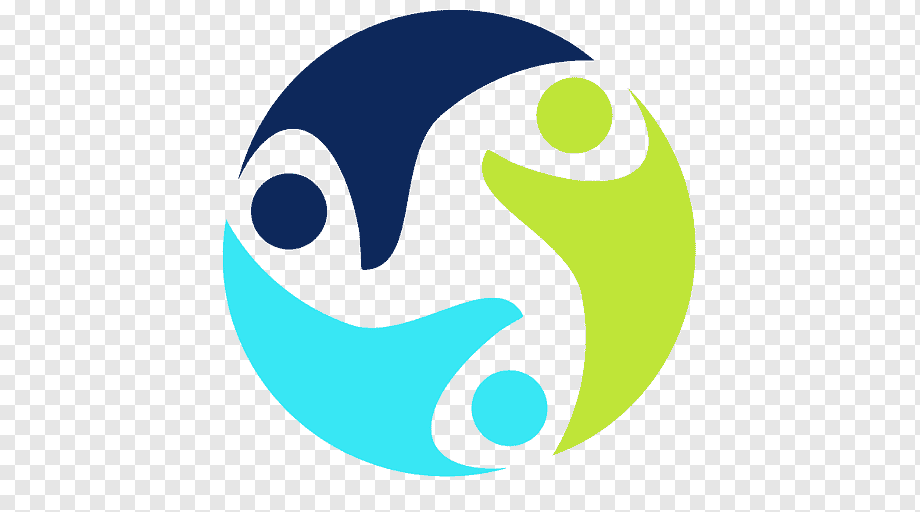
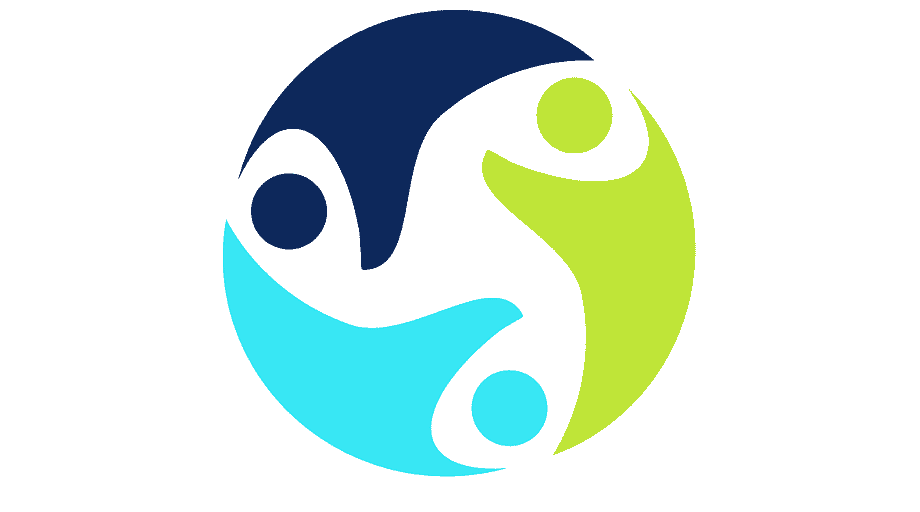
feat: ajustes de login, manejo de errores y multilenguaje

diff --git a/src/pages/controllers/login/Login.tsx b/src/pages/controllers/login/Login.tsx
@@ -46,16 +46,18 @@ export const Login = () => {
     ev.preventDefault();
     setLoading(true);
     const formData = serialize(ev.target as HTMLFormElement);
-    const { data } = await publicFetch.post<IAxiosResponseMessage>('/Login/Register',
+    const { data } = await publicFetch.post<IAxiosResponseMessage>('/login/register',
       formData
     );
     data.callback = function (): any {
+      if(data?.code !== 201) return;
       (ev.target as HTMLFormElement).reset();
-      setActualAge(0);
       setPage('login');
+      return;
     }
-    notify(data);
+    notify(data, true);
     setLoading(false);
+    return;
   }
   return isAutenticated() ? <Navigate to="/home" /> : (
     <>
@@ -70,7 +72,7 @@ export const Login = () => {
           <Row style={{ height: "100%" }}>
             <Col className='my-auto'>
               <h5 style={{ fontSize: "3rem" }} className="mt-0 mb-0 text-light text-center mb-0 align-middle">
-                <Logo width='200px' />
+                <Logo width='300px' />
               </h5>
             </Col>
           </Row>
@@ -82,7 +84,7 @@ export const Login = () => {
                 <Card className={`${styles.card} ${styles.shadow} border-0 mx-auto`}>
                   <Card.Header className={`${styles.card_header}  p-4`}>
                     <h5 className='text-light text-center mb-0 align-middle'>
-                      <Logo width='50px' />
+                      <Logo width='100px' />
                     </h5>
                   </Card.Header>
                   <Card.Body className="p-4">
@@ -139,14 +141,8 @@ export const Login = () => {
                                     {t("email")}
                                   </h6 >
                                 </label>
-                                <InputGroup size="sm" className="mb-1">
-                                  <FormControl ref={codeRef} size="sm" name="email" required />
-                                  <Button size="sm" variant={'primary'}>
-                                    <FontAwesomeIcon icon={faCheck} />&nbsp;
-                                  </Button>
-                                </InputGroup>
+                                <FormControl type="email" size="sm" name="email" required />
                                 <div className="invalid-feedback"> {t("email")}</div>
-                                <FormControl size="sm" type="number" maxLength={6} name='verify-code' required className="mb-2" placeholder={t('verify-code')} />
                                 <label>
                                   <h6 className='text-grey'>
                                     <FontAwesomeIcon icon={faUser} />&nbsp;
@@ -156,37 +152,17 @@ export const Login = () => {
                                 <FormControl size="sm" name='name' required className="mb-2" />
                                 <label>
                                   <h6 className='text-grey'>
-                                    <FontAwesomeIcon icon={faCalendarWeek} />&nbsp;
-                                    {t("birth-date")}
-                                  </h6 >
-                                </label>
-                                <InputGroup size="sm" className="mb-1">
-                                  <FormControl className={actualAge >= 18 ? "is-valid" : actualAge !== 0 ? "is-invalid" : ''} type="date" size="sm" name="birthdate" required />
-                                  <Button size="sm" variant="primary">
-                                    {actualAge} {t('years')}
-                                  </Button>
-                                </InputGroup>
-                                <label>
-                                  <h6 className='text-grey'>
                                     <FontAwesomeIcon icon={faKey} />&nbsp;
                                     {t("password")}
                                   </h6 >
                                 </label>
                                 <InputGroup size="sm" className="mb-1">
-                                  <FormControl type={showPass ? "text" : "password"} size="sm" name="password" required />
+                                  <FormControl type={showPass ? "text" : "password"} minLength={8} size="sm" name="password" required />
                                   <Button size="sm" variant="primary" onClick={() => setShowPass(prev => !prev)}>
                                     {
                                       showPass ? <FontAwesomeIcon icon={faEyeSlash} /> : <FontAwesomeIcon icon={faEye} />
                                     }
                                   </Button>
-                                </InputGroup>
-                                <InputGroup size="sm" className="mb-1 form-check">
-                                  <Form.Check
-                                    required
-                                    type="checkbox"
-                                    name="accept_tyc"
-                                    label={<Link to={TERM_URL} target="_blank" >{t("terms-and-conditions")}</Link>}
-                                  />
                                 </InputGroup>
                               </div >
                               <Row className="m-3 justify-content-center">

diff --git a/src/components/basepanel/Sidebar.tsx b/src/components/basepanel/Sidebar.tsx
@@ -16,13 +16,16 @@ export const Sidebar = ({ children }: ContextProps) => {
     const [fullWidth, setFullWidth] = useState<boolean>(false);
     const { theme, setTheme } = useTheme();
     const { user, LogOut } = useAuth();
-    const { t } = useTranslation();
+    const { t, i18n } = useTranslation();
     //const { validatePermissions } = usePermissions();
     const [openCollapse, setOpenCollapse] = useState<boolean>(false);
     useEffect(() => {
-        validateResponsive();     
-     
+        validateResponsive();
+
     }, []);
+    const handleUpdateLang = (e: React.ChangeEvent<HTMLSelectElement>) => {
+        i18n.changeLanguage(e.target.value);
+    }
     const CollapsableNavItem = (props: ISideBarCollapsableNavItem) => {
         const [opened, setOpened] = useState<boolean>(false);
         const { title, icon, children = null } = props;
@@ -102,7 +105,7 @@ export const Sidebar = ({ children }: ContextProps) => {
                                 <i className="uil-bars" />
                             </Button>
                             <Link to="/home" className="navbar-brand">
-                                <Logo width="100px" transparent className="img-fluid" />
+                                <Logo width="80px" transparent className="img-fluid" />
                             </Link>
                         </div>
                         <Button type="button" className='navbar-toggler ml-auto' onClick={() => setOpenCollapse(!openCollapse)}
@@ -114,6 +117,12 @@ export const Sidebar = ({ children }: ContextProps) => {
                         <Collapse className="navbar-collapse" in={openCollapse}>
                             <div id="toggle-navbar">
                                 <ul className="navbar-nav ms-auto">
+                                    <li className="nav-item">
+                                        <select value={i18n.language} className="form-select form-select-sm mt-2" onChange={handleUpdateLang}>
+                                            <option value="en">{t("english")}</option>
+                                            <option value="es">{t("spanish")}</option>
+                                        </select>
+                                    </li>
                                     <li className="nav-item">
                                         <Link to='#' className="nav-link" onClick={() => { setTheme(theme === "light" ? "dark" : "light") }}>
                                             <FontAwesomeIcon icon={theme === "light" ? faMoon : faSun} />
@@ -149,7 +158,7 @@ export const Sidebar = ({ children }: ContextProps) => {
                     {children}
                 </Container>
                 <footer>
-                    &copy; {APP_NAME} <br /> 2025 - {new Date().getFullYear()} <br />
+                    &copy; {APP_NAME} <br /> {new Date().getFullYear()} <br />
                 </footer>
             </section>
         </>

diff --git a/src/hooks/useNotify.tsx b/src/hooks/useNotify.tsx
@@ -32,6 +32,14 @@ export const useNotify = () => {
                     callback: data.callback
                 });
                 break;
+            case 500:
+                Alert({
+                    title: t('error'),
+                    text: translated ? t(data.text) : data.text,
+                    type: "error",
+                    callback: data.callback
+                });
+                break;
             default:
                 Alert({
                     title: t('warning'),

diff --git a/index.html b/index.html
@@ -2,8 +2,9 @@
 <html lang="en">
   <head>
     <meta charset="UTF-8" />
-    <link rel="icon" type="image/svg+xml" href="/vite.svg" />
+    <link rel="icon" href="./public/icon.png" />
     <meta name="viewport" content="width=device-width, initial-scale=1.0" />
+    <link rel="stylesheet" href="https://unicons.iconscout.com/release/v4.0.8/css/line.css">
     <title>frontend</title>
   </head>
   <body>

diff --git a/src/assets/css/mainColors.css b/src/assets/css/mainColors.css
@@ -10,7 +10,7 @@
 	--dk-gray-900: #111827;
 	--dk-dark-bg: #313348;
 	/*Color principal Login*/
-	--sidebar-bg-color: #0048BA;
+	--sidebar-bg-color: #2b4673;
 	--navbar-color: rgb(255, 255, 255);
 	--body-bg: linear-gradient(to bottom, #fff, rgb(227, 226, 226)) !important;
 	--sidebar-width: 250px;

diff --git a/src/components/general/Logo.tsx b/src/components/general/Logo.tsx
@@ -1,5 +1,5 @@
 import type { LogoProps } from "@types";
-import logo from "@assets/img/icon.jpeg";
+import logo from "@assets/img/icon.png";
 import logoTransparent from "@assets/img/transparent_logo.png";
 import { memo } from "react";
 
